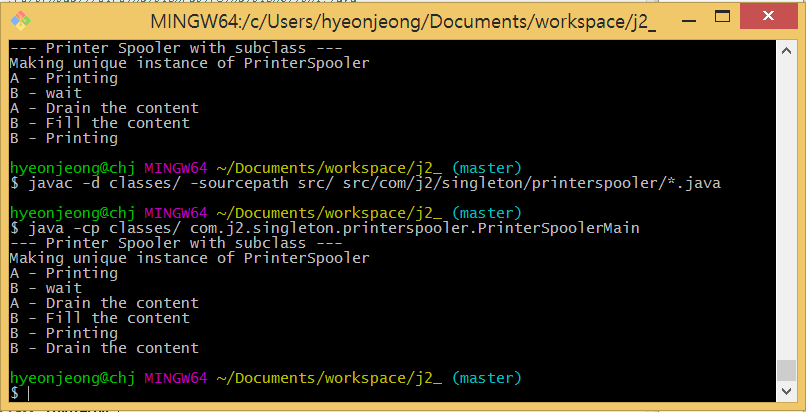
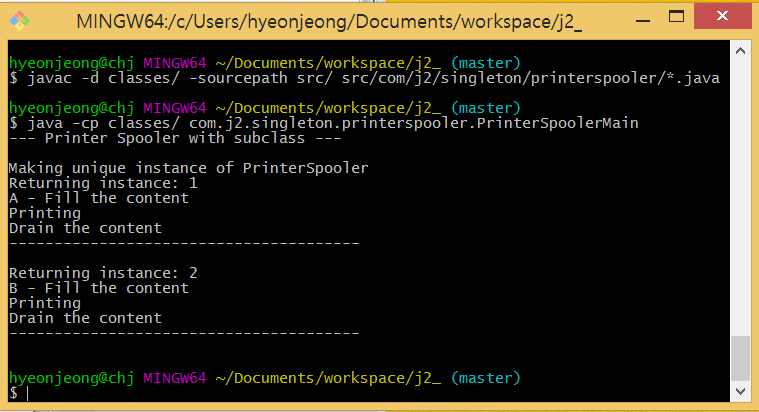
singleton

diff --git a/src/com/j2/singleton/printerspooler/PrinterSpoolerMain.java b/src/com/j2/singleton/printerspooler/PrinterSpoolerMain.java
@@ -2,20 +2,21 @@ package com.j2.singleton.printerspooler;
 
 public class PrinterSpoolerMain {
   public static void main(String[] args) {
-    System.out.println("--- Printer Spooler with subclass ---");
+    System.out.println("--- Printer Spooler with subclass ---" + "\n");
     PrinterSpooler aa = PrinterSpoolerA.getInstance();
-    PrinterSpooler bb = PrinterSpoolerB.getInstance();
+    PrinterSpooler bb;
+    
     System.out.print("A - ");
+    aa.fill();
     aa.print();
-    System.out.print("B - ");
-    bb.print();
-    System.out.print("A - ");
     aa.drain();
+    System.out.println("---------------------------------------" + "\n");
+    
+    bb = PrinterSpoolerB.getInstance();
     System.out.print("B - ");
     bb.fill();
-    System.out.print("B - ");
     bb.print();
-    System.out.print("B - ");
     bb.drain();
+    System.out.println("---------------------------------------" + "\n");
   }
 }

diff --git a/src/com/j2/singleton/printerspooler/PrinterSpooler.java b/src/com/j2/singleton/printerspooler/PrinterSpooler.java
@@ -4,9 +4,10 @@ public class PrinterSpooler {
   private boolean empty;
   private boolean printed;
   protected static PrinterSpooler uniqueInstance;
+  private static int numCalled = 1;
   
   protected PrinterSpooler() { //this Printer works when it is empty.
-    empty = false;
+    empty = true;
     printed = false;
   }
   
@@ -15,6 +16,7 @@ public class PrinterSpooler {
       System.out.println("Making unique instance of PrinterSpooler");
       uniqueInstance = new PrinterSpooler();
     }
+    System.out.println("Returning instance: " + numCalled++);
     return uniqueInstance;
   }
  
@@ -37,9 +39,7 @@ public class PrinterSpooler {
     if (!isEmpty() && !isPrinted()) {
       System.out.println("Printing");
       printed = true;
-    }  
-    else
-      System.out.println("wait");
+    } 
   }
    
   public boolean isEmpty() { 

diff --git a/src/com/j2/singleton/chocolate/ChocolateBoiler.java b/src/com/j2/singleton/chocolate/ChocolateBoiler.java
@@ -4,7 +4,7 @@ public class ChocolateBoiler {
   private boolean empty;
   private boolean boiled;
   private static ChocolateBoiler uniqueInstance;
-  private static int numCalled = 0;
+  private static int numCalled = 1;
   
   private ChocolateBoiler() {
     empty = true;
@@ -16,7 +16,7 @@ public class ChocolateBoiler {
       System.out.println("Making unique instance of Chocolate Boiler");
       uniqueInstance = new ChocolateBoiler();
     }
-    System.out.println("Returning instance"+" -- numCalled: " + numCalled++);
+    System.out.println("Returning instance number: " + numCalled++);
     return uniqueInstance;
   }
   

diff --git a/src/com/j2/singleton/printerspooler/PrinterSpoolerB.java b/src/com/j2/singleton/printerspooler/PrinterSpoolerB.java
@@ -1,7 +1,7 @@
 package com.j2.singleton.printerspooler;
 
-public class PrinterSpoolerB extends PrinterSpooler {
-   protected static PrinterSpooler uniqueInstance;
+public class PrinterSpoolerB extends PrinterSpooler { 
+  protected static PrinterSpooler uniqueInstance;
  
  private PrinterSpoolerB() {
    super();

diff --git a/src/com/j2/singleton/printerspooler/PrinterSpoolerA.java b/src/com/j2/singleton/printerspooler/PrinterSpoolerA.java
@@ -1,11 +1,9 @@
 package com.j2.singleton.printerspooler;
 
 public class PrinterSpoolerA extends PrinterSpooler {
- protected static PrinterSpooler uniqueInstance;
+  protected static PrinterSpooler uniqueInstance;
  
  private PrinterSpoolerA() {
    super();
  }
- 
- // useful methods here
 }
